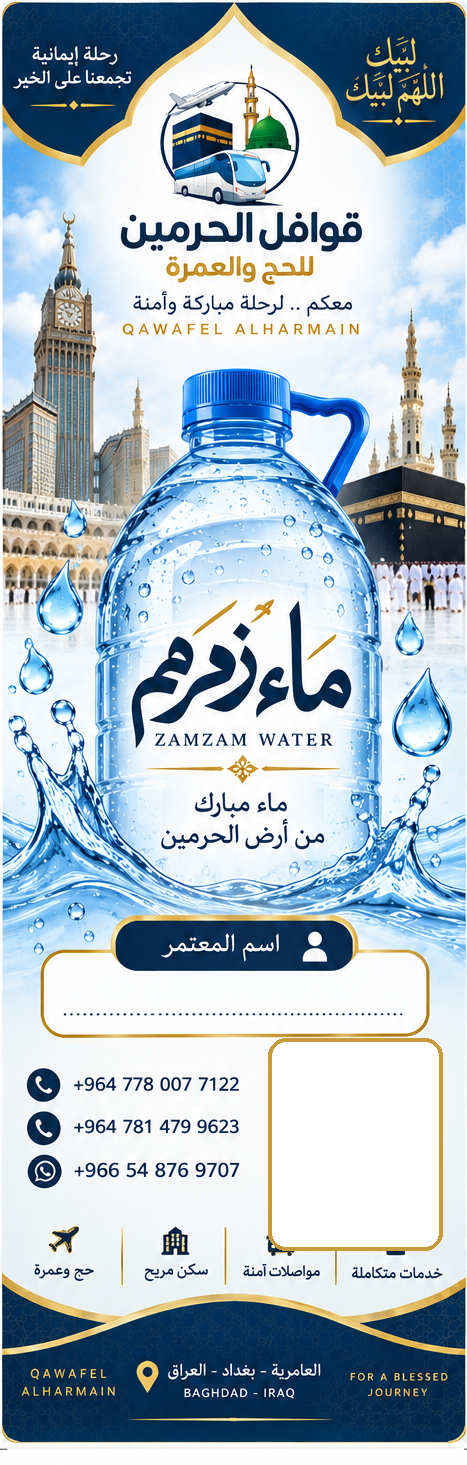
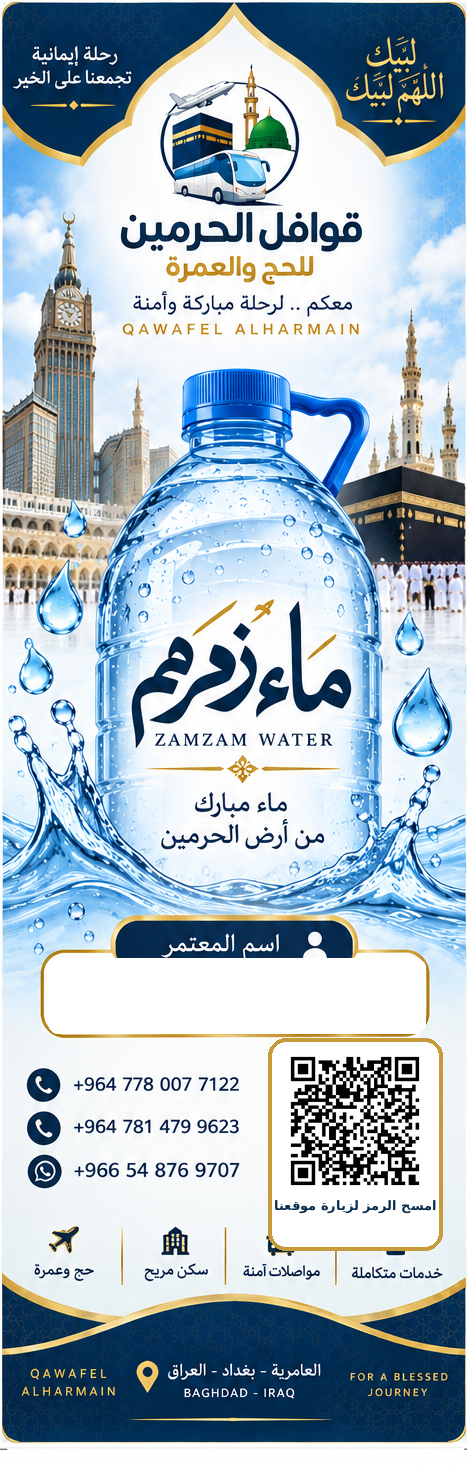
Add files via upload

Changed region(s): [[0.5996, 0.7065, 0.8994, 0.8294], [0.2398, 0.6451, 0.7495, 0.6758]]

diff --git a/programs.html b/programs.html
@@ -412,22 +412,23 @@ $('zamzamStickersTrip')?.addEventListener('click',printTripZamzamStickers);
 async function zamzamStickerData(p){
  return {name:p.full_name||'—'};
 }
-function zamzamQrUrl(){return 'https://www.qawafialharamainiq.com/';}
 function zamzamStickerHtml(d){
- const qr='https://api.qrserver.com/v1/create-qr-code/?size=300x300&margin=2&data='+encodeURIComponent(zamzamQrUrl());
- const template=new URL('zamzam_sticker_template.png?v=233',location.href).href;
+ const template=new URL('zamzam_sticker_template.png?v=234',location.href).href;
  return `<article class="zamzam-sticker" style="background-image:url('${template}')">
    <div class="zamzam-name">${esc(d.name)}</div>
-   <div class="zamzam-qr"><img loading="eager" src="${qr}" alt="QR"><small>امسح الرمز لزيارة موقعنا</small></div>
  </article>`;
 }
 function zamzamPrintCSS(){return `
-*{box-sizing:border-box}html,body{margin:0;padding:0;background:#fff;font-family:Tahoma,Arial,sans-serif;-webkit-print-color-adjust:exact;print-color-adjust:exact}.zamzam-page{position:relative;width:210mm;height:297mm;margin:0 auto;display:grid;grid-template-columns:105mm 105mm;grid-template-rows:297mm;page-break-after:always;break-after:page;background:#fff}.zamzam-sticker{width:105mm;height:297mm;position:relative;overflow:hidden;background-repeat:no-repeat;background-position:center;background-size:105mm 297mm;page-break-inside:avoid;break-inside:avoid}.zamzam-cut{position:absolute;left:104.7mm;top:0;width:.6mm;height:297mm;border-left:.35mm dashed #555;z-index:50;pointer-events:none}.zamzam-cut:before,.zamzam-cut:after{content:'✂';position:absolute;left:-2.5mm;font-size:4mm;color:#555;background:#fff;line-height:1;padding:0 .5mm}.zamzam-cut:before{top:2mm}.zamzam-cut:after{bottom:2mm}.zamzam-name{position:absolute;left:10mm;top:204.8mm;width:85mm;height:17.8mm;display:flex;align-items:center;justify-content:center;text-align:center;color:#082d4f;background:#fff;font-weight:900;font-size:5.15mm;line-height:1.15;white-space:nowrap;overflow:hidden;text-overflow:ellipsis;direction:rtl;padding:1mm 3mm;z-index:21;border-radius:2.8mm}.zamzam-qr{position:absolute;left:60.7mm;top:234.1mm;width:39.1mm;height:47.2mm;background:#fff;border:.45mm solid #c9952f;border-radius:2.5mm;z-index:20;text-align:center;padding:2mm 1mm 1mm;overflow:hidden}.zamzam-qr img{width:31mm;height:31mm;display:block;margin:0 auto;background:#fff}.zamzam-qr small{display:block;font-size:2.0mm;font-weight:800;color:#082d4f;line-height:1.1;margin-top:.8mm;white-space:nowrap}@page{size:A4 portrait;margin:0}@media print{html,body{width:210mm;height:297mm;background:#fff}.zamzam-page{width:210mm;height:297mm}.zamzam-sticker{-webkit-print-color-adjust:exact;print-color-adjust:exact}.zamzam-cut{display:block}}`}
+*{box-sizing:border-box}html,body{margin:0;padding:0;background:#fff;font-family:Tahoma,Arial,sans-serif;-webkit-print-color-adjust:exact;print-color-adjust:exact}.zamzam-page{position:relative;width:210mm;height:297mm;margin:0 auto;display:grid;grid-template-columns:105mm 105mm;grid-template-rows:297mm;page-break-after:always;break-after:page;background:#fff}.zamzam-sticker{width:105mm;height:297mm;position:relative;overflow:hidden;background-repeat:no-repeat;background-position:center;background-size:105mm 297mm;page-break-inside:avoid;break-inside:avoid}.zamzam-cut{position:absolute;left:104.7mm;top:0;width:.6mm;height:297mm;border-left:.35mm dashed #555;z-index:50;pointer-events:none}.zamzam-cut:before,.zamzam-cut:after{content:'✂';position:absolute;left:-2.5mm;font-size:4mm;color:#555;background:#fff;line-height:1;padding:0 .5mm}.zamzam-cut:before{top:2mm}.zamzam-cut:after{bottom:2mm}.zamzam-name{position:absolute;left:10mm;top:204.8mm;width:85mm;height:17.8mm;display:flex;align-items:center;justify-content:center;text-align:center;color:#082d4f;background:transparent;font-weight:900;font-size:5.15mm;line-height:1.15;white-space:nowrap;overflow:hidden;text-overflow:ellipsis;direction:rtl;padding:1mm 3mm;z-index:21}@page{size:A4 portrait;margin:0}@media print{html,body{width:210mm;height:297mm;background:#fff}.zamzam-page{width:210mm;height:297mm}.zamzam-sticker{-webkit-print-color-adjust:exact;print-color-adjust:exact}.zamzam-cut{display:block}}`}
 async function openZamzamPrintWindow(cards,title){
  const w=window.open('about:blank','_blank');if(!w)return null;
  w.document.open();w.document.write('<!doctype html><html lang="ar" dir="rtl"><head><meta charset="utf-8"><meta name="viewport" content="width=device-width,initial-scale=1"><title>'+esc(title||'ستيكرات زمزم')+'</title><style>'+zamzamPrintCSS()+'</style></head><body><div id="printArea"></div></body></html>');w.document.close();
  const area=w.document.getElementById('printArea');
- for(let i=0;i<cards.length;i+=2){const page=w.document.createElement('section');page.className='zamzam-page';const left=w.document.createElement('div');left.className='zamzam-sticker';left.outerHTML=cards[i]||'<article class="zamzam-sticker"></article>';const right=w.document.createElement('div');right.className='zamzam-sticker';right.outerHTML=cards[i+1]||'<article class="zamzam-sticker"></article>';page.innerHTML=(cards[i]||'')+(cards[i+1]||'')+'<div class="zamzam-cut" aria-hidden="true"></div>';area.appendChild(page)}
+ for(let i=0;i<cards.length;i+=2){
+   const page=w.document.createElement('section');page.className='zamzam-page';
+   page.innerHTML=(cards[i]||'')+(cards[i+1]||'')+'<div class="zamzam-cut" aria-hidden="true"></div>';
+   area.appendChild(page);
+ }
  await waitBadgeImages(w);setTimeout(()=>{w.focus();w.print()},700);return w;
 }
 async function printTripZamzamStickers(){
